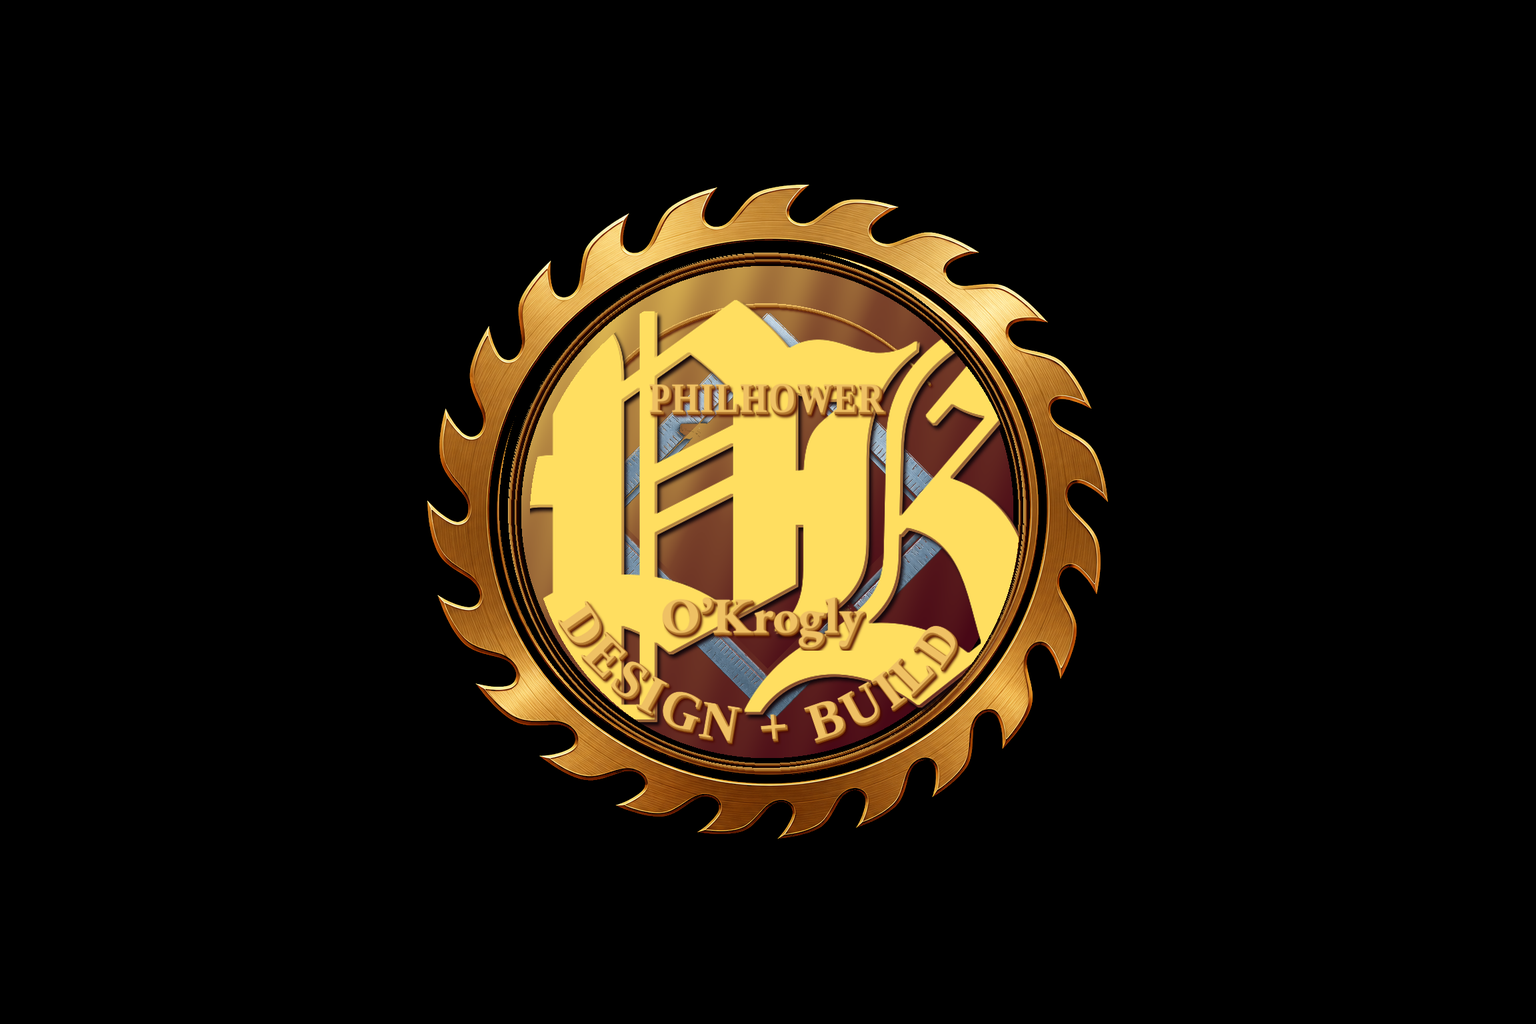
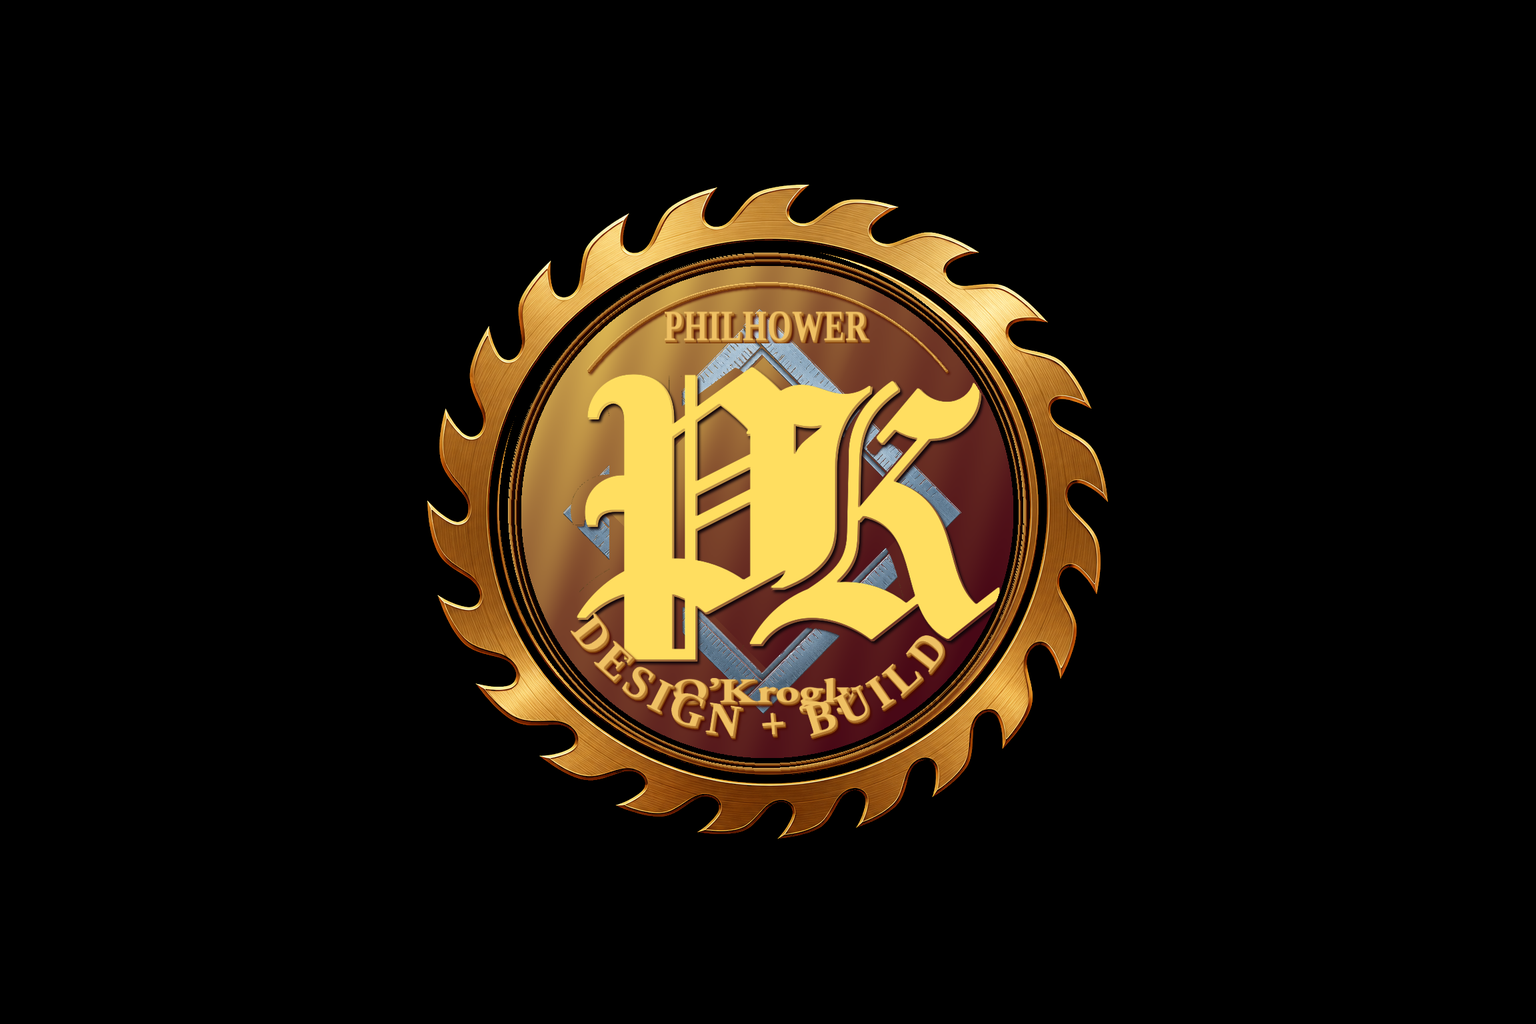
Balance the POK lockup: centered PK, paired names, quieter arc.
Monogram sits on axis over the square. PHILHOWER and O’Krogly share
lanes in the diamond points. DESIGN + BUILD stays on the bottom arc.

Changed region(s): [[0.3438, 0.25, 0.6875, 0.7188]]

diff --git a/dphilhower-studio-wp/preview/work/philhower-okrogly/index.html b/dphilhower-studio-wp/preview/work/philhower-okrogly/index.html
@@ -41,7 +41,7 @@
         <li><strong>Place</strong><br>Northern New Jersey</li>
       </ul>
       <div class="entry-content">
-        <p>Same Hills blade. Big Old English PK overlapping the carpenter-square. Gold–burgundy gradient fills the open field. PHILHOWER in Times, O’Krogly in Garamond. DESIGN + BUILD on the bottom arc.</p>
+        <p>Same Hills blade. Balanced lockup: PK overlapping the carpenter-square on a gold–burgundy field. PHILHOWER and O’Krogly in the diamond points. DESIGN + BUILD on the bottom arc.</p>
         <p>One lockup. Polo, van, yard, card, fridge. Black outside the blade.</p>
       </div>
     </article>

diff --git a/dphilhower-studio-wp/theme/dphilhower-studio/style.css b/dphilhower-studio-wp/theme/dphilhower-studio/style.css
@@ -4,7 +4,7 @@ Theme URI: https://dphilhower.com
 Author: D Philhower Studio
 Author URI: https://dphilhower.com
 Description: Custom graphic design studio theme for D Philhower Studio at dphilhower.com — portfolio, services, about, and project inquiries. Activate the theme to load demo pages and work samples.
-Version: 1.0.33
+Version: 1.0.34
 Requires at least: 6.4
 Tested up to: 6.8
 Requires PHP: 7.4

diff --git a/dphilhower-studio-wp/theme/dphilhower-studio/inc/setup-content.php b/dphilhower-studio-wp/theme/dphilhower-studio/inc/setup-content.php
@@ -326,7 +326,7 @@ function dps_seed_demo_content( $force = false ) {
 			'services' => 'Identity · embroidery · vehicle · signage',
 			'year'     => '2025',
 			'location' => 'Northern New Jersey',
-			'content'  => '<p>Same Hills blade. Big Old English PK overlapping the carpenter-square. Gold–burgundy gradient fills the open field. PHILHOWER in Times, O’Krogly in Garamond. DESIGN + BUILD on the bottom arc.</p><p>One lockup. Polo, van, yard, card, fridge. Black outside the blade.</p>',
+			'content'  => '<p>Same Hills blade. Balanced lockup: PK overlapping the carpenter-square on a gold–burgundy field. PHILHOWER and O’Krogly in the diamond points. DESIGN + BUILD on the bottom arc.</p><p>One lockup. Polo, van, yard, card, fridge. Black outside the blade.</p>',
 		),
 		array(
 			'slug'     => 'cafe-robust',
@@ -461,7 +461,7 @@ function dps_seed_demo_content( $force = false ) {
 	flush_rewrite_rules();
 
 	update_option( 'dps_demo_seeded', DPS_VERSION );
-	update_option( 'dps_images_version', 'brands-print-26' );
+	update_option( 'dps_images_version', 'brands-print-27' );
 	return true;
 }
 

diff --git a/dphilhower-studio-wp/theme/dphilhower-studio/inc/brand-kits.php b/dphilhower-studio-wp/theme/dphilhower-studio/inc/brand-kits.php
@@ -289,7 +289,7 @@ function dps_brand_kits() {
 		'philhower-okrogly'        => array(
 			'label'  => __( 'Print system', 'dphilhower-studio' ),
 			'title'  => __( 'One lockup, five scales', 'dphilhower-studio' ),
-			'intro'  => __( 'Hills blade. Big Old English PK overlapping the carpenter-square. Gold–burgundy gradient in the open field. Times PHILHOWER, Garamond O’Krogly. DESIGN + BUILD on the bottom arc. Polo, van, yard, card, fridge — one lockup.', 'dphilhower-studio' ),
+			'intro'  => __( 'Hills blade. Balanced lockup: PK overlapping the carpenter-square on a gold–burgundy field. PHILHOWER and O’Krogly in the diamond points. DESIGN + BUILD on the bottom arc. Polo, van, yard, card, fridge — one lockup.', 'dphilhower-studio' ),
 			'pieces' => array(
 				array(
 					'file'    => 'pok-seal-hero.png',

diff --git a/dphilhower-studio-wp/theme/dphilhower-studio/functions.php b/dphilhower-studio-wp/theme/dphilhower-studio/functions.php
@@ -9,7 +9,7 @@ if ( ! defined( 'ABSPATH' ) ) {
 	exit;
 }
 
-define( 'DPS_VERSION', '1.0.33' );
+define( 'DPS_VERSION', '1.0.34' );
 define( 'DPS_DIR', get_template_directory() );
 define( 'DPS_URI', get_template_directory_uri() );
 
@@ -164,14 +164,14 @@ function dps_maybe_upgrade_images() {
 	if ( 'dphilhower-studio' !== get_stylesheet() ) {
 		return;
 	}
-	if ( get_option( 'dps_images_version' ) === 'brands-print-26' ) {
+	if ( get_option( 'dps_images_version' ) === 'brands-print-27' ) {
 		return;
 	}
 	if ( ! get_option( 'dps_demo_seeded' ) ) {
 		return;
 	}
 	dps_seed_demo_content( true );
-	update_option( 'dps_images_version', 'brands-print-26' );
+	update_option( 'dps_images_version', 'brands-print-27' );
 }
 
 /**
